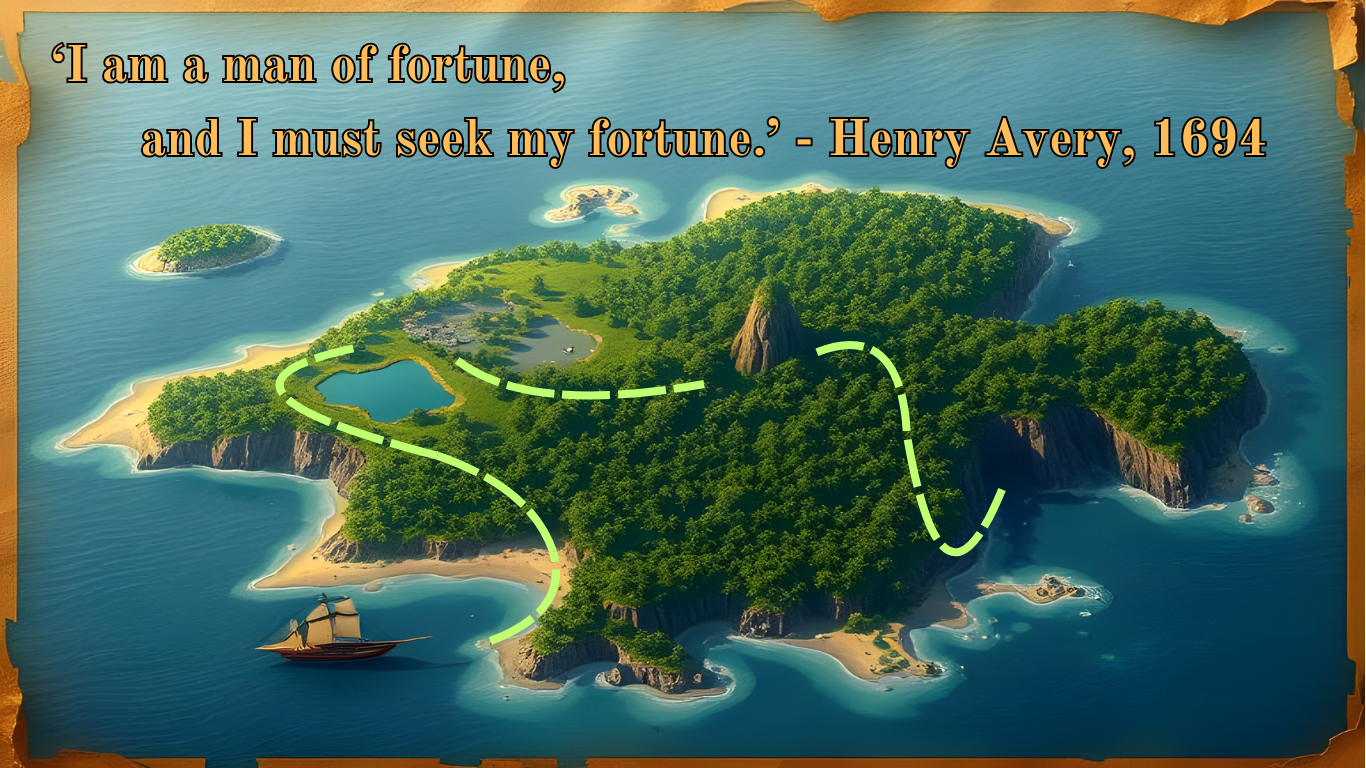
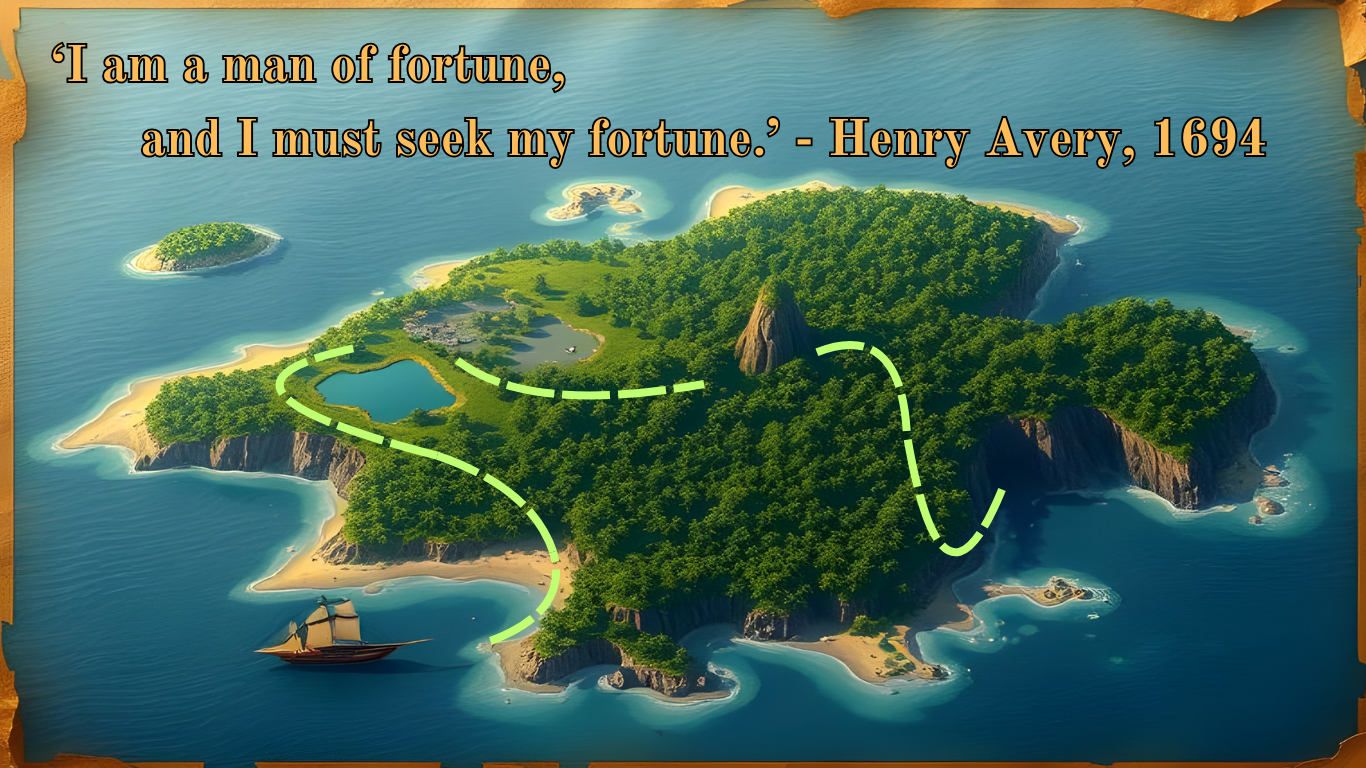
UPDATE: Footer changes
Footer is now at the end of the page instead of fixed position now attached to the page

Changed region(s): [[0.0, 0.0, 1.0, 1.0], [0.0922, 0.2812, 0.2152, 0.375], [0.2152, 0.4375, 0.246, 0.4688]]

diff --git a/frontend/app/escape-room/map/page.tsx b/frontend/app/escape-room/map/page.tsx
@@ -10,33 +10,31 @@ export default function MapRoomPage() {
   return (
     <div className="container theme-transition" style={{ backgroundColor: theme === 'light' ? '#ffffff' : 'var(--background)', padding: "0", minHeight: "100vh", display: 'flex', flexDirection: 'column' }} data-theme={theme}>
       <Header studentNumber="21406232" />
-      <div style={{ marginTop: "133px", flex: 1, overflow: 'hidden' }}>
+      <div style={{ marginTop: "140px", marginBottom: "20px", flex: 1, overflow: 'hidden' }}>
         <div style={{ position: 'relative', height: '100%', width: '100%', display: 'flex', alignItems: 'center', justifyContent: 'center' }}>
           {/* Aspect-ratio container to avoid cropping */}
           <div style={{
             position: 'relative',
             width: '100%',
             height: '100%',
-            maxWidth: '1200px',
-            maxHeight: '100%',
+            maxWidth: '1600px',
+            maxHeight: '675px',
             aspectRatio: '16 / 9',
             backgroundImage: "url('/escape-room-misc/treasure-map.png')",
-            backgroundSize: 'contain',
+            backgroundSize: '89.8vw 89.6vh',
             backgroundPosition: 'center',
             backgroundRepeat: 'no-repeat',
             border: '3px solid var(--border-color)',
             borderRadius: '8px'
           }}>
             <div style={{ position: 'absolute', inset: 0, background: 'rgba(0,0,0,0.15)' }} />
-
-            <div className="d-flex justify-content-between align-items-center" style={{ position: 'absolute', top: 0, left: 0, right: 0, padding: '12px 16px', zIndex: 1 }}>
-              <h4 className="mb-0" style={{ color: 'white', textShadow: '1px 1px 2px rgba(0,0,0,0.8)' }}>Treasure Map</h4>
-              <span className="badge" style={{ backgroundColor: '#6c757d', color: 'white', fontSize: '14px', padding: '6px 10px', borderRadius: '14px' }}>Timer paused</span>
-            </div>
+          </div>
+          <div className="d-flex justify-content-between align-items-center" style={{ position: 'absolute', top: 0, left: 0, right: 0, padding: '12px 16px', zIndex: 1 }}>
+            <h4 className="mb-0" style={{ color: 'white', textShadow: '1px 1px 2px rgba(0,0,0,0.8)' }}>Treasure Map</h4>
+            <span className="badge" style={{ backgroundColor: '#6c757d', color: 'white', fontSize: '14px', padding: '6px 10px', borderRadius: '14px' }}>Timer paused</span>
           </div>
         </div>
       </div>
-      {/* Footer removed during game/map view */}
     </div>
   );
 }

diff --git a/frontend/app/escape-room/page.tsx b/frontend/app/escape-room/page.tsx
@@ -2,7 +2,6 @@
 import "bootstrap/dist/css/bootstrap.min.css";
 import Link from 'next/link';
 import { useEffect, useState } from 'react';
-import Footer from '../Components/Footer';
 import Header from '../Components/header';
 import { useTheme } from '../Components/ThemeContext';
 import Stage1 from './stages/Stage1';
@@ -100,10 +99,10 @@ export default function EscapeRoom() {
   // Map page lives at /escape-room/map
 
   return (
-    <div className="container theme-transition" style={{ backgroundColor: theme === 'light' ? '#ffffff' : 'var(--background)', padding: "0", minHeight: "100vh", display: 'flex', flexDirection: 'column' }} data-theme={theme}>
+    <div className="container theme-transition" style={{ backgroundColor: theme === 'light' ? '#ffffff' : 'var(--background)', padding: "0" }} data-theme={theme}>
       <Header studentNumber="21406232" />
 
-      <div style={{ marginTop: "133px", flex: 1, overflow: 'hidden' }}>
+      <div style={{ marginTop: "133px", marginBottom: "20px"}}>
         {gameState === 'menu' && (
           <div className="row justify-content-center" style={{ height: '100%' }}>
             <div className="col-md-10" style={{ height: '100%' }}>
@@ -286,9 +285,9 @@ export default function EscapeRoom() {
               <div className="text-center" style={{ color: "var(--text-primary)" }}>
                 <h1 className="display-4 mb-4">🎉 Congratulations!</h1>
                 <div className="card" style={{
-                  backgroundColor: "var(--section-bg)",
-                  color: "var(--text-primary)",
-                  borderColor: "var(--border-color)"
+                backgroundColor: "var(--section-bg)",
+                color: "var(--text-primary)",
+                borderColor: "var(--border-color)"
               }}>
                 <div className="card-body">
                     <h2 className="card-title mb-3">Escape Room Completed!</h2>
@@ -337,7 +336,6 @@ export default function EscapeRoom() {
           </div>
         )}
       </div>
-      {(gameState === 'menu' || gameState === 'completed' || gameState === 'timeup') && <Footer />}
     </div>
   );
 } 

diff --git a/frontend/app/layout.tsx b/frontend/app/layout.tsx
@@ -1,5 +1,6 @@
 import type { Metadata } from "next";
 import { Geist, Geist_Mono } from "next/font/google";
+import Footer from "./Components/Footer";
 import { ThemeProvider } from "./Components/ThemeContext";
 import "./globals.css";
 
@@ -27,10 +28,15 @@ export default function RootLayout({
     <html lang="en">
       <body
         className={`${geistSans.variable} ${geistMono.variable} antialiased`}
-        style={{ backgroundColor: "var(--background)", margin: 0, padding: 0 }}
+        style={{ backgroundColor: "var(--background)", margin: 0, padding: 0, minHeight: '100vh', display: 'flex', flexDirection: 'column' }}
       >
         <ThemeProvider>
-          {children}
+          <div style={{ display: 'flex', flexDirection: 'column', minHeight: '100vh' }}>
+            <div style={{ flex: 1, display: 'flex', flexDirection: 'column' }}>
+              {children}
+            </div>
+            <Footer />
+          </div>
         </ThemeProvider>
       </body>
     </html>

diff --git a/frontend/app/Components/Footer.tsx b/frontend/app/Components/Footer.tsx
@@ -22,13 +22,7 @@ const Footer = () => {
       backgroundColor: "var(--footer-bg)",
       color: "var(--text-primary)",
       padding: "20px 0",
-      borderTop: "2px solid var(--border-color)",
-      position: "fixed",
-      bottom: 0,
-      left: 0,
-      right: 0,
-      width: "100%",
-      zIndex: 999
+      borderTop: "2px solid var(--border-color)"
     }} className="theme-transition">
       <div className="container">
         <div className="row">

diff --git a/frontend/app/page.tsx b/frontend/app/page.tsx
@@ -1,7 +1,6 @@
 'use client';
 import "bootstrap/dist/css/bootstrap.min.css";
 import { useEffect, useState } from "react";
-import Footer from './Components/Footer';
 import Header from './Components/header';
 import { useTheme } from './Components/ThemeContext';
 
@@ -359,7 +358,6 @@ export default function Home() {
 
         </div>
       </div>
-      <Footer />
     </div>
   );
 } 

diff --git a/frontend/app/coding-races/page.tsx b/frontend/app/coding-races/page.tsx
@@ -1,6 +1,5 @@
 'use client';
 import "bootstrap/dist/css/bootstrap.min.css";
-import Footer from '../Components/Footer';
 import Header from '../Components/header';
 import { useTheme } from '../Components/ThemeContext';
 
@@ -47,7 +46,6 @@ export default function CodingRaces() {
           </div>
         </div>
       </div>
-      <Footer />
     </div>
   );
 } 

diff --git a/frontend/app/court-room/page.tsx b/frontend/app/court-room/page.tsx
@@ -1,6 +1,5 @@
 'use client';
 import "bootstrap/dist/css/bootstrap.min.css";
-import Footer from '../Components/Footer';
 import Header from '../Components/header';
 import { useTheme } from '../Components/ThemeContext';
 
@@ -47,7 +46,6 @@ export default function CourtRoom() {
           </div>
         </div>
       </div>
-      <Footer />
     </div>
   );
 } 

diff --git a/frontend/app/about/page.tsx b/frontend/app/about/page.tsx
@@ -1,6 +1,5 @@
 'use client';
 import "bootstrap/dist/css/bootstrap.min.css";
-import Footer from "../Components/Footer";
 import Header from "../Components/header";
 import { useTheme } from "../Components/ThemeContext";
 
@@ -83,7 +82,6 @@ export default function About() {
           </div>
         </div>
       </div>
-      <Footer />
     </div>
   );
 } 
